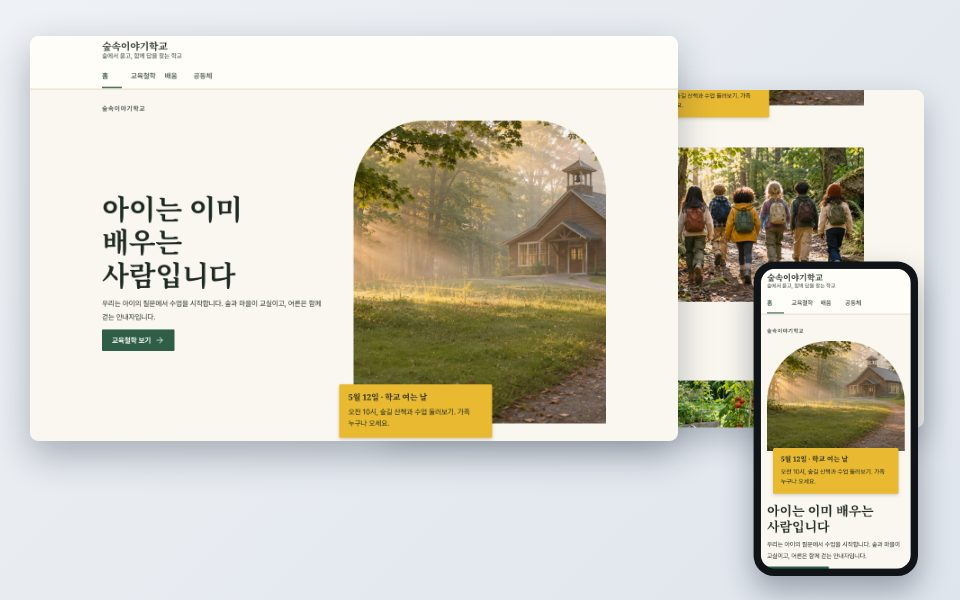
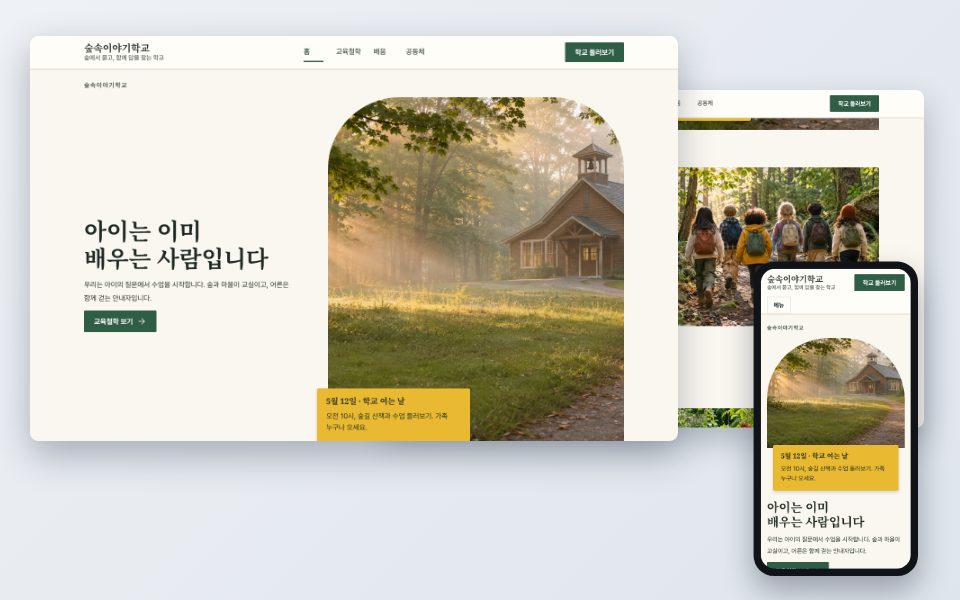
106차: 템플릿 레이아웃 체계 — 격자·구역 띠·구역 머리·한 줄 머리글·4칸 바닥글 (#159)
* 100차 준비: 템플릿 레이아웃 체계 진단과 작업 지시

Claude-Session: https://claude.ai/code/session_013RZyUom6xS67hpTPYHpecQ

* 초안(보관): Claude가 만든 템플릿 레이아웃 층 — Codex 결과와 비교용, 병합하지 않음

Claude-Session: https://claude.ai/code/session_013RZyUom6xS67hpTPYHpecQ

* 106차: 템플릿 레이아웃 체계 — 1200px 격자·구역 띠·구역 머리·한 줄 머리글·4칸 바닥글, 썸네일

- 키트 테마만(campus·dawn 그대로). 휴대폰 메뉴 접이 단추 44px, 겹친 카드 화면 안쪽
- 바닥글 주요 행동 단추 대비(axe) 수정
- 차시 문서·인계·Codex 연결 확인 결과 기록

Claude-Session: https://claude.ai/code/session_013RZyUom6xS67hpTPYHpecQ

---------

diff --git a/src/app/globals.css b/src/app/globals.css
@@ -2246,3 +2246,93 @@ label.lang-switch { display: inline-flex; align-items: center; gap: var(--space-
 .site:is([data-theme="ivory"], [data-theme="studio"], [data-theme="play"]):not([data-theme="campus"]):not([data-theme="dawn"]) .sec-faq summary { display: flex; align-items: center; justify-content: space-between; gap: var(--space-3); padding-block: var(--space-2); }
 
 .site[data-theme="play"]:not([data-theme="campus"]):not([data-theme="dawn"]) .sec[data-template="media-right"][data-variant="half"] { padding: clamp(20px, 4vw, 48px); background: var(--t-surface); border: 2px solid var(--t-accent-soft); border-radius: var(--t-radius); }
+
+/* ───────── 100차: 템플릿 레이아웃 체계 (docs/design/template-layout-brief.md, template-reference-board.md)
+   키트 테마(campus·dawn 제외)에만. 격자 폭 1200px · 읽기 폭 720px · 구역 간격 한 값 · 구역 띠 · 구역 머리 · 줄 끝까지 차는 카드 · 한 줄 머리글 · 4칸 바닥글 */
+.site[data-theme]:not([data-theme="campus"]):not([data-theme="dawn"]) {
+  --L-max: 1200px; --L-read: 720px; --L-gutter: clamp(16px, 2.2vw, 28px);
+  --L-section: clamp(56px, 7vw, 104px); --L-head-gap: var(--space-5);
+  --L-band: color-mix(in srgb, var(--t-accent-soft) 45%, var(--t-bg));
+}
+.site[data-theme]:not([data-theme="campus"]):not([data-theme="dawn"]) .site-wrap { width: min(var(--L-max), 100% - 2 * var(--L-gutter)); }
+.site[data-theme]:not([data-theme="campus"]):not([data-theme="dawn"]) .site-main { padding-top: var(--space-6); padding-bottom: 0; gap: 0; }
+.site[data-theme]:not([data-theme="campus"]):not([data-theme="dawn"]) .site-main > .site-head { padding-bottom: var(--space-6); }
+.site[data-theme]:not([data-theme="campus"]):not([data-theme="dawn"]) .site-blocks { gap: 0; }
+/* 구역 간격: 구역마다 위아래 같은 여백(겹치는 띠·첫 화면 예외) */
+.site[data-theme]:not([data-theme="campus"]):not([data-theme="dawn"]) .site-blocks > :is(.sec:not([data-template="banner"], [data-template="cta"]), .site-section, .sec-quote, .site-text, .site-figure, .site-video, .site-gallery, .site-download) { padding-block: calc(var(--L-section) / 2); }
+.site[data-theme]:not([data-theme="campus"]):not([data-theme="dawn"]) .site-blocks > .sec[data-template="banner"] { margin-block: calc(var(--L-section) / 2); }
+.site[data-theme]:not([data-theme="campus"]):not([data-theme="dawn"]) .site-blocks > .sec[data-template="banner"]:first-child { margin-top: 0; }
+.site[data-theme]:not([data-theme="campus"]):not([data-theme="dawn"]) .site-blocks > .site-section { border-top: 0; }
+.site[data-theme]:not([data-theme="campus"]):not([data-theme="dawn"]) .site-blocks > :first-child { padding-top: 0; }
+/* 구역 띠: 카드·사진·단계·정보·소식 구역은 화면 끝까지 연한 바탕을 깐다(가로 넘침 없이 그림자로) */
+.site[data-theme]:not([data-theme="campus"]):not([data-theme="dawn"]) .site-blocks > :is(.sec[data-template="cards"], .sec[data-template="steps"], .sec[data-template="facts"], .site-section):nth-child(even) {
+  background: var(--L-band); box-shadow: 0 0 0 100vmax var(--L-band); clip-path: inset(0 -100vmax);
+}
+.site[data-theme]:not([data-theme="campus"]):not([data-theme="dawn"]) .site-blocks > .sec[data-template="cta"] { margin-block: calc(var(--L-section) / 2); }
+/* 구역 머리: 이름표 → 제목 → 설명은 왼쪽(읽기 폭), 단추·'모두 보기'는 오른쪽 끝 */
+.site[data-theme]:not([data-theme="campus"]):not([data-theme="dawn"]) .sec:is([data-template="cards"], [data-template="photos"], [data-template="steps"], [data-template="facts"]) > .sec-copy,
+.site[data-theme]:not([data-theme="campus"]):not([data-theme="dawn"]) .site-section > .sec-copy {
+  max-width: none; width: 100%; grid-template-columns: minmax(0, var(--L-read)) auto; justify-content: space-between; align-items: end; column-gap: var(--space-6); margin-bottom: var(--L-head-gap);
+}
+.site[data-theme]:not([data-theme="campus"]):not([data-theme="dawn"]) .sec:is([data-template="cards"], [data-template="photos"], [data-template="steps"], [data-template="facts"]) > .sec-copy > :not(.site-button, .site-link),
+.site[data-theme]:not([data-theme="campus"]):not([data-theme="dawn"]) .site-section > .sec-copy > :not(.site-button, .site-link) { grid-column: 1; }
+.site[data-theme]:not([data-theme="campus"]):not([data-theme="dawn"]) .sec:is([data-template="cards"], [data-template="photos"], [data-template="steps"], [data-template="facts"]) > .sec-copy > :is(.site-button, .site-link),
+.site[data-theme]:not([data-theme="campus"]):not([data-theme="dawn"]) .site-section > .sec-copy > :is(.site-button, .site-link) { grid-column: 2; grid-row: 1 / span 4; align-self: end; justify-self: end; white-space: nowrap; }
+.site[data-theme]:not([data-theme="campus"]):not([data-theme="dawn"]) :is(.sec-copy, .site-head) > p { max-width: var(--L-read); }
+/* 카드 격자: 줄 끝까지 채우고, 개수에 맞춰 2·3·4칸, 같은 높이·같은 사진 비율 */
+.site[data-theme]:not([data-theme="campus"]):not([data-theme="dawn"]) .sec:is(:not([data-variant]), [data-variant="filter"]) > :is(.sec-cards, .sec-photos, .sec-steps),
+.site[data-theme]:not([data-theme="campus"]):not([data-theme="dawn"]) .sec:is(:not([data-variant]), [data-variant="filter"]) .sec-filter :is(.sec-cards, .sec-photos),
+.site[data-theme]:not([data-theme="campus"]):not([data-theme="dawn"]) .site-section > .site-cards { grid-template-columns: repeat(3, minmax(0, 1fr)); gap: var(--L-gutter); }
+.site[data-theme]:not([data-theme="campus"]):not([data-theme="dawn"]) .sec:is(:not([data-variant]), [data-variant="filter"]) :is(.sec-cards, .sec-photos, .sec-steps):is(:has(> li:nth-child(4):last-child), :has(> li:nth-child(8):last-child)),
+.site[data-theme]:not([data-theme="campus"]):not([data-theme="dawn"]) .site-section > .site-cards:is(:has(> li:nth-child(4):last-child), :has(> li:nth-child(8):last-child)) { grid-template-columns: repeat(4, minmax(0, 1fr)); }
+.site[data-theme]:not([data-theme="campus"]):not([data-theme="dawn"]) .sec:is(:not([data-variant]), [data-variant="filter"]) :is(.sec-cards, .sec-photos, .sec-steps):has(> li:nth-child(2):last-child),
+.site[data-theme]:not([data-theme="campus"]):not([data-theme="dawn"]) .site-section > .site-cards:has(> li:nth-child(2):last-child) { grid-template-columns: repeat(2, minmax(0, 1fr)); }
+.site[data-theme]:not([data-theme="campus"]):not([data-theme="dawn"]) :is(.sec-cards, .site-cards) > li { height: 100%; }
+.site[data-theme]:not([data-theme="campus"]):not([data-theme="dawn"]) .sec-cards > li > a, .site[data-theme]:not([data-theme="campus"]):not([data-theme="dawn"]) .site-cards > li > a { height: 100%; }
+.site[data-theme]:not([data-theme="campus"]):not([data-theme="dawn"]) :is(.sec-cards, .sec-photos, .site-cards) img { width: 100%; aspect-ratio: 4 / 3; object-fit: cover; }
+/* 반반 구역: 6칸 · 6칸, 세로 가운데 */
+.site[data-theme]:not([data-theme="campus"]):not([data-theme="dawn"]) .sec:is([data-template="media-left"], [data-template="media-right"]):not([data-variant]) { grid-template-columns: repeat(2, minmax(0, 1fr)); gap: clamp(24px, 5vw, 72px); align-items: center; }
+/* 첫 화면(글 | 사진): 글 5칸 · 사진 7칸, 위아래 가운데. 겹친 카드는 사진 안쪽 아래에 */
+.site[data-theme]:not([data-theme="campus"]):not([data-theme="dawn"]) .sec[data-template="banner"][data-variant="editorial"] { grid-template-columns: minmax(0, 5fr) minmax(0, 7fr); }
+.site[data-theme]:not([data-theme="campus"]):not([data-theme="dawn"]) .sec[data-template="banner"][data-variant="editorial"] .sec-copy { max-width: 36rem; }
+.site[data-theme]:not([data-theme="campus"]):not([data-theme="dawn"]) .sec[data-template="banner"][data-variant="editorial"] h2 { font-size: clamp(32px, 3.6vw, 52px); text-wrap: balance; }
+@media (min-width: 761px) { .site[data-theme]:not([data-theme="campus"]):not([data-theme="dawn"]) .sec[data-template="banner"][data-variant="editorial"] .sec-cards { margin: 0 0 var(--space-6) calc(-1 * var(--space-6)); } }
+/* 머리글: 한 줄(학교 이름 · 메뉴 · 언어 · 주요 행동), 맨 위에 붙는다 */
+.site[data-theme]:not([data-theme="campus"]):not([data-theme="dawn"]) .site-header { position: sticky; top: 0; z-index: 20; }
+.site[data-theme]:not([data-theme="campus"]):not([data-theme="dawn"]) .site-header-row { flex-wrap: nowrap; min-height: 72px; gap: var(--space-5); }
+.site[data-theme]:not([data-theme="campus"]):not([data-theme="dawn"]) .site-brand { flex: none; }
+.site[data-theme]:not([data-theme="campus"]):not([data-theme="dawn"]) .site-nav-inline { flex: 1; justify-content: center; gap: clamp(12px, 2vw, 28px); overflow: visible; }
+.site[data-theme]:not([data-theme="campus"]):not([data-theme="dawn"]) .site-nav-inline a { display: inline-flex; align-items: center; min-height: 44px; padding: 0; }
+.site[data-theme]:not([data-theme="campus"]):not([data-theme="dawn"]) .site-langs { flex: none; }
+.site[data-theme]:not([data-theme="campus"]):not([data-theme="dawn"]) .site-header .site-visit { flex: none; min-height: 44px; }
+.site[data-theme]:not([data-theme="campus"]):not([data-theme="dawn"]) .site-menu { display: none; }
+.site[data-theme]:not([data-theme="campus"]):not([data-theme="dawn"]) .site-menu > summary { display: inline-flex; align-items: center; gap: var(--space-2); min-height: 44px; padding: 0 var(--space-4); border: 1px solid var(--t-line); border-radius: var(--t-btn-radius); font-weight: 700; cursor: pointer; }
+.site[data-theme]:not([data-theme="campus"]):not([data-theme="dawn"]) .site-menu[open] > summary { margin-bottom: var(--space-2); }
+.site[data-theme]:not([data-theme="campus"]):not([data-theme="dawn"]) .site-menu nav { display: grid; gap: 0; padding-bottom: var(--space-3); }
+.site[data-theme]:not([data-theme="campus"]):not([data-theme="dawn"]) .site-menu nav a { display: flex; align-items: center; min-height: 44px; border-bottom: 1px solid var(--t-line); color: var(--t-ink); text-decoration: none; font-weight: 600; }
+.site[data-theme]:not([data-theme="campus"]):not([data-theme="dawn"]) .site-menu nav a[aria-current="page"] { color: var(--t-link); }
+/* 바닥글: 학교 | 메뉴 | 연락 | 주요 행동, 아래 줄(저작권·교직원) */
+.site[data-theme]:not([data-theme="campus"]):not([data-theme="dawn"]) .site-footer-grid { grid-template-columns: minmax(0, 1.4fr) minmax(0, 1fr) minmax(0, 1.2fr) minmax(0, 1fr); gap: var(--space-8); }
+.site[data-theme]:not([data-theme="campus"]):not([data-theme="dawn"]) .site-footer-grid > nav { grid-template-columns: repeat(2, minmax(0, max-content)); column-gap: var(--space-6); }
+.site[data-theme]:not([data-theme="campus"]):not([data-theme="dawn"]) .site-footer-action { display: grid; align-content: start; justify-items: start; }
+.site[data-theme]:not([data-theme="campus"]):not([data-theme="dawn"]) .site-footer .site-footer-action a.site-button { color: var(--t-accent-ink); }
+.site[data-theme]:not([data-theme="campus"]):not([data-theme="dawn"]) .site-footer-note { border-top: 1px solid color-mix(in srgb, currentColor 22%, transparent); }
+@media (max-width: 900px) {
+  .site[data-theme]:not([data-theme="campus"]):not([data-theme="dawn"]) .site-nav-inline { display: none; }
+  .site[data-theme]:not([data-theme="campus"]):not([data-theme="dawn"]) .site-menu { display: block; }
+  .site[data-theme]:not([data-theme="campus"]):not([data-theme="dawn"]) .site-header-row { flex-wrap: wrap; }
+  .site[data-theme]:not([data-theme="campus"]):not([data-theme="dawn"]) .site-header .site-visit { margin-left: auto; }
+  .site[data-theme]:not([data-theme="campus"]):not([data-theme="dawn"]) .sec:is(:not([data-variant]), [data-variant="filter"]) :is(.sec-cards, .sec-photos, .sec-steps),
+  .site[data-theme]:not([data-theme="campus"]):not([data-theme="dawn"]) .sec:is(:not([data-variant]), [data-variant="filter"]) :is(.sec-cards, .sec-photos, .sec-steps):is(:has(> li:nth-child(4):last-child), :has(> li:nth-child(8):last-child)),
+  .site[data-theme]:not([data-theme="campus"]):not([data-theme="dawn"]) .site-section > .site-cards, .site[data-theme]:not([data-theme="campus"]):not([data-theme="dawn"]) .site-section > .site-cards:has(> li:nth-child(4):last-child) { grid-template-columns: repeat(2, minmax(0, 1fr)); }
+  .site[data-theme]:not([data-theme="campus"]):not([data-theme="dawn"]) .site-footer-grid { grid-template-columns: repeat(2, minmax(0, 1fr)); }
+}
+@media (max-width: 760px) {
+  .site[data-theme]:not([data-theme="campus"]):not([data-theme="dawn"]) .sec:is(:not([data-variant]), [data-variant="filter"]) :is(.sec-cards, .sec-photos, .sec-steps),
+  .site[data-theme]:not([data-theme="campus"]):not([data-theme="dawn"]) .sec:is(:not([data-variant]), [data-variant="filter"]) :is(.sec-cards, .sec-photos, .sec-steps):is(:has(> li:nth-child(4):last-child), :has(> li:nth-child(2):last-child)),
+  .site[data-theme]:not([data-theme="campus"]):not([data-theme="dawn"]) .site-section > .site-cards, .site[data-theme]:not([data-theme="campus"]):not([data-theme="dawn"]) .site-section > .site-cards:has(> li) { grid-template-columns: minmax(0, 1fr); }
+  .site[data-theme]:not([data-theme="campus"]):not([data-theme="dawn"]) .sec:is([data-template="cards"], [data-template="photos"], [data-template="steps"], [data-template="facts"]) > .sec-copy, .site[data-theme]:not([data-theme="campus"]):not([data-theme="dawn"]) .site-section > .sec-copy { grid-template-columns: minmax(0, 1fr); }
+  .site[data-theme]:not([data-theme="campus"]):not([data-theme="dawn"]) .sec:is([data-template="cards"], [data-template="photos"], [data-template="steps"], [data-template="facts"]) > .sec-copy > :is(.site-button, .site-link), .site[data-theme]:not([data-theme="campus"]):not([data-theme="dawn"]) .site-section > .sec-copy > :is(.site-button, .site-link) { grid-column: 1; grid-row: auto; justify-self: start; }
+  .site[data-theme]:not([data-theme="campus"]):not([data-theme="dawn"]) .sec:is([data-template="media-left"], [data-template="media-right"]):not([data-variant]), .site[data-theme]:not([data-theme="campus"]):not([data-theme="dawn"]) .sec[data-template="banner"][data-variant="editorial"] { grid-template-columns: minmax(0, 1fr); }
+  .site[data-theme]:not([data-theme="campus"]):not([data-theme="dawn"]) .site-footer-grid { grid-template-columns: minmax(0, 1fr); }
+}

diff --git a/src/lib/site-templates.ts b/src/lib/site-templates.ts
@@ -27,8 +27,10 @@ const ko = (s: string): LText => ({ ko: s });
 const kb = (k: string, e: string): LText => ({ ko: k, en: e });
 const section = (b: Omit<Extract<Block, { type: 'section' }>, 'type'>): Block => ({ type: 'section', ...b });
 const news = (title: LText, count = 3, style: 'cards' | 'list' = 'cards'): Block => ({ type: 'news_list', title, count, style });
-const contact = (): Content['site'] => ({
+const contact = (visit?: { label: string; href: string }): Content['site'] => ({
   tagline: ko('[학교를 한 줄로 소개하는 말]'), address: ko('[학교 주소]'), footer: ko('[학교 이름] · [대표 전화] · [이메일]'),
+  // 100차: 머리글 오른쪽·바닥글의 주요 행동 단추(학교가 이름과 가는 곳을 바꾼다)
+  ...(visit ? { visit: { label: ko(visit.label), href: visit.href } } : {}),
 });
 const page = (key: string, sort: number, title: LText, blocks: Block[], extra: Partial<Content> = {}): TemplatePage =>
   ({ kind: 'page', key, sort, content: { title, blocks, ...extra } });
@@ -81,7 +83,7 @@ export const SITE_TEMPLATES: SiteTemplate[] = [
     ],
   },
   {
-    key: 'story', version: 3, name: '이야기형', theme: 'ivory', langs: ['ko'],
+    key: 'story', version: 4, name: '이야기형', theme: 'ivory', langs: ['ko'],
     summary: '교육철학과 학교의 하루를 사진과 이야기로 보여 줍니다.',
     fits: ['사립·대안학교', '교육철학으로 알려지는 학교'], firstScreen: '큰 사진 · 교육철학 · 하루 이야기',
     mustHave: ['교육철학', '배움(교육과정)', '입학 문의 방법'],
@@ -94,7 +96,7 @@ export const SITE_TEMPLATES: SiteTemplate[] = [
         section({ template: 'photos', variant: 'mosaic', eyebrow: ko('학교의 사계절'), title: ko('[사진으로 보는 우리 학교]'), items: [
           { title: ko('[사진 이름 1]') }, { title: ko('[사진 이름 2]') }, { title: ko('[사진 이름 3]') }, { title: ko('[사진 이름 4]') }, { title: ko('[사진 이름 5]') }] }),
         news(ko('이야기'), 3),
-      ], { site: contact() }),
+      ], { site: contact({ label: '학교 둘러보기', href: '/p/community' }) }),
       page('philosophy', 1, ko('교육철학'), [
         section({ template: 'quote', variant: 'editorial', title: ko('숲과 마을을 교실로 삼는 우리의 약속'), body: ko('[학교를 세운 마음을 담은 한마디]') }),
         section({ template: 'cards', variant: 'index', title: ko('우리가 소중히 여기는 것'), items: [{ title: ko('[가치 1]'), body: ko('[설명]') }, { title: ko('[가치 2]'), body: ko('[설명]') }, { title: ko('[가치 3]'), body: ko('[설명]') }] }),
@@ -156,7 +158,7 @@ export const SITE_TEMPLATES: SiteTemplate[] = [
     ],
   },
   {
-    key: 'project', version: 4, name: '프로젝트형', theme: 'studio', langs: ['ko'],
+    key: 'project', version: 5, name: '프로젝트형', theme: 'studio', langs: ['ko'],
     summary: '학생 프로젝트와 작품을 사진 묶음으로 보여 주는 PBL 학교용입니다.',
     fits: ['PBL·프로젝트 중심 대안학교', '발표회·전시가 많은 학교'], firstScreen: '프로젝트 소개 · 발표회 소식',
     mustHave: ['배움의 방식(PBL 흐름)', '프로젝트 목록', '학생 작품 공개 허가'],
@@ -170,7 +172,7 @@ export const SITE_TEMPLATES: SiteTemplate[] = [
         section({ template: 'steps', title: ko('배움의 흐름'), items: [{ title: ko('문제 정의'), body: ko('[학생이 질문을 찾는 방법]') }, { title: ko('탐구'), body: ko('[자료·현장·전문가]') }, { title: ko('산출'), body: ko('[만드는 것]') }, { title: ko('나눔·피드백'), body: ko('[발표·전시]') }] }),
         section({ template: 'cards', variant: 'mentors', eyebrow: ko('곁에서 함께 묻는 사람들'), title: ko('마을의 멘토'), items: [1, 2, 3].map(() => ({ title: ko('[이름 · 맡은 분야]'), body: ko('[한 줄 소개]') })), button: { label: ko('배움의 방식 보기'), href: '/p/how-we-learn' } }),
         news(ko('발표회·전시 소식'), 3),
-      ], { site: contact() }),
+      ], { site: contact({ label: '발표회 보기', href: '/p/projects' }) }),
       page('how-we-learn', 1, ko('배움의 방식'), [
         section({ template: 'media-left', eyebrow: ko('질문에서 세상으로'), title: ko('왜 프로젝트로 배우나요'), body: ko('[학교의 설명]') }),
         section({ template: 'facts', variant: 'curriculum', title: ko('한 학기 흐름'), items: [1, 2, 3, 4].map(() => ({ title: ko('[주차]'), body: ko('[활동]') })) }),
@@ -256,7 +258,7 @@ export const SITE_TEMPLATES: SiteTemplate[] = [
   },
   {
     // 90차: 대표 3종의 유치원(골격 D 그래픽 마스크형) — 둥글게 오린 놀이 사진, 연령별 반, 하루 일과 시간 띠, 학부모 질문
-    key: 'kinder', version: 3, name: '유치원형', theme: 'play', langs: ['ko'],
+    key: 'kinder', version: 4, name: '유치원형', theme: 'play', langs: ['ko'],
     summary: '아이들의 하루와 반, 학부모가 궁금한 것을 사진과 함께 따뜻하게 보여 줍니다.',
     fits: ['유치원·어린이집', '초등 저학년 중심 학교'], firstScreen: '둥근 놀이 사진 · 우리 반 · 하루 일과',
     mustHave: ['연령별 반 안내', '하루 일과', '급식·건강 안내', '입학(입소) 상담 방법'],
@@ -270,7 +272,7 @@ export const SITE_TEMPLATES: SiteTemplate[] = [
         news(ko('알림'), 3),
         section({ template: 'facts', variant: 'faq', title: ko('학부모가 자주 묻는 질문'), items: [{ title: ko('[질문 1]'), body: ko('[답 1]') }, { title: ko('[질문 2]'), body: ko('[답 2]') }] }),
         section({ template: 'cta', title: ko('직접 와서 보세요'), body: ko('[방문 상담 요일·연락처]'), button: { label: ko('상담 안내'), href: '/p/admission' } }),
-      ], { site: contact() }),
+      ], { site: contact({ label: '입학 상담', href: '/p/admission' }) }),
       page('classes', 1, ko('우리 반'), [
         section({ template: 'cards', variant: 'rows', eyebrow: ko('아이의 속도에 맞추어'), title: ko('연령별 반'), items: [
           { title: ko('[반 이름 · 나이 1]'), body: ko('[하루 모습·담임·정원]') }, { title: ko('[반 이름 · 나이 2]'), body: ko('[하루 모습·담임·정원]') }, { title: ko('[반 이름 · 나이 3]'), body: ko('[하루 모습·담임·정원]') }] }),

diff --git a/src/components/site/SiteFrame.tsx b/src/components/site/SiteFrame.tsx
@@ -70,6 +70,8 @@ export function SiteFrame({ site, lang, current, path, profile, assetUrl, hidden
   const title = pick(site.title, lang, site.default_lang) || site.school;
   const t = (x: Parameters<typeof pick>[0]) => pick(x, lang, site.default_lang);
   const dawn = site.theme === 'dawn';
+  // 100차: 템플릿 키트 디자인(campus·dawn 제외)은 한 줄 머리글(이름 · 메뉴 · 언어 · 주요 행동)과 4칸 바닥글을 쓴다
+  const kit = !dawn && site.theme !== 'campus';
   // 89차: 새벽빛과 템플릿 완성 디자인(ADR 0034)은 학교 이름·메뉴·연락처가 있는 넓은 바닥을 쓴다(학사 기본만 한 줄 바닥)
   const richFooter = site.theme !== 'campus';
   const nav = hidden ? [] : [
@@ -102,7 +104,7 @@ export function SiteFrame({ site, lang, current, path, profile, assetUrl, hidden
             <span><strong>{title}</strong>{t(profile?.tagline) && <small>{t(profile?.tagline)}</small>}</span>
           </Link>
           {/* 42차: 새벽빛은 옛 사이트처럼 메뉴를 머리 한 줄 안에 둔다 */}
-          {dawn && nav.length > 0 && <nav className="site-nav site-nav-inline" aria-label={title}>{navList}</nav>}
+          {(dawn || kit) && nav.length > 0 && <nav className="site-nav site-nav-inline" aria-label={title}>{navList}</nav>}
           {langList.length > 1 && (dawn
             ? (
               <Suspense fallback={<details className="site-lang-menu"><summary><span lang={lang}>{LANG_LABEL[lang]}</span></summary></details>}>
@@ -117,8 +119,8 @@ export function SiteFrame({ site, lang, current, path, profile, assetUrl, hidden
           {visit && <Link className="site-button site-visit" href={visit.href.startsWith('/') ? link(visit.href) : visit.href}>{t(visit.label)}</Link>}
         </div>
         {nav.length > 0 && <>
-          {!dawn && <nav className="site-wrap site-nav" aria-label={title}>{navList}</nav>}
-          {dawn && (
+          {!dawn && !kit && <nav className="site-wrap site-nav" aria-label={title}>{navList}</nav>}
+          {(dawn || kit) && (
             <Suspense fallback={<details className="site-wrap site-menu"><summary>{siteText('menu', lang)}</summary></details>}>
               <AutoCloseDetails className="site-wrap site-menu" summary={siteText('menu', lang)}>
                 <nav aria-label={`${title} ${siteText('menu', lang)}`}>{navList}</nav>
@@ -147,6 +149,11 @@ export function SiteFrame({ site, lang, current, path, profile, assetUrl, hidden
               {profile?.phone?.length ? <p><a href={`tel:${profile.phone.at(-1)!.replace(/[^0-9+]/g, '')}`} aria-label={`${siteText('call', lang)} ${profile.phone.at(-1)}`}>{profile.phone.at(-1)}</a></p> : null}
               {profile?.facebook && <p><a className="site-link" href={profile.facebook} target="_blank" rel="noopener noreferrer">Facebook<ArrowRight className="link-arrow" size={20} strokeWidth={1.4} aria-hidden="true" /></a></p>}
             </div>
+            {kit && visit && (
+              <div className="site-footer-action">
+                <Link className="site-button" href={visit.href.startsWith('/') ? link(visit.href) : visit.href}>{t(visit.label)}</Link>
+              </div>
+            )}
             <div className="site-footer-note">
               <p>{t(profile?.footer) || `© ${title}`}</p>
               {!preview && <a className="site-footer-staff" href={staffEditHref(site, path)} rel="nofollow" data-testid="staff-edit">{siteText('staff', lang)}</a>}

diff --git a/docs/design/template-layout-brief.md b/docs/design/template-layout-brief.md
@@ -1,0 +1,60 @@
+# 템플릿 레이아웃 체계 — 진단과 작업 지시 (100차 준비, 2026-11-27)
+
+> **요약** 99차로 사진과 쪽별 배치는 들어갔지만, 화면을 붙잡는 **공통 레이아웃 체계**(격자·간격 단계·구역 머리·머리글·바닥글 규칙)가 없습니다. 그래서 구역마다 폭·정렬·여백이 제각각이고 빈 곳이 생깁니다. 이 작업은 잘 정돈된 학교·기관 템플릿들의 **구조 원리**를 조사해, 정리된 레이아웃 체계를 만들고 대표 3종(story·project·kinder)에 적용합니다.
+
+> **왜** 선생님(2026-11-27): "사진도 예쁘고 좋긴 한데 기본적인 골격, 레이아웃이 정리되지 않은 것 같다. 레이아웃이 촘촘하게 잘 정돈된 템플릿을 찾고 반영하도록 하자."
+
+```terms
+격자(grid) | 화면을 같은 폭의 세로 칸(예: 12칸)으로 나눠 모든 요소를 칸 경계에 맞추는 규칙 | 카드 3장 = 4칸씩, 글·사진 반반 = 6칸씩
+간격 단계 | 여백을 몇 가지 정해진 크기로만 쓰는 규칙 | 구역 사이 96px, 제목과 본문 사이 16px
+구역 머리 | 각 구역 위에 오는 작은 이름표·제목·설명·'모두 보기' 링크의 고정 배치 | "학생 작품 / 이번 학기 만든 것 / 모두 보기 →"
+구역 띠 | 구역마다 배경색을 번갈아 깔아 경계를 보이게 하는 것 | 흰 바탕 → 연한 베이지 → 흰 바탕
+```
+
+## 1. 지금 화면에서 본 문제 (운영 1440px, 99차)
+| # | 문제 | 어디서 |
+| --- | --- | --- |
+| 1 | 화면 공통 격자가 없다. 구역마다 폭이 다르다(본문 760px 제한, 갤러리는 1120px, 소식 카드는 3/4 폭에서 끝남). 오른쪽에 큰 빈칸이 생긴다 | 세 템플릿 모두 |
+| 2 | 소식 카드 3장이 줄 끝까지 차지 않고 왼쪽에 몰린다 | 홈 '이야기·발표회·알림' |
+| 3 | 구역 간격이 일정하지 않다. 어떤 곳은 200px 넘게 비고, 어떤 곳은 구분선만 있다. 배경 띠가 없어 구역 경계가 흐리다 | 세 템플릿 모두 |
+| 4 | 구역 머리 모양이 제각각이다. 이름표·제목·설명·링크 위치가 구역마다 다르고, 단추가 제목과 격자 사이에 끼어 있다 | 프로젝트형 '마을 멘토' |
+| 5 | 첫 화면의 글 칸과 사진 칸이 세로로 맞지 않는다. 글 칸이 좁아 제목이 3줄로 꺾이고, 겹친 행사 카드가 사진 밖으로 어긋난다 | 이야기형 첫 화면 |
+| 6 | 머리글이 약하다. 학교 이름·메뉴가 위아래로 쌓이고, 오른쪽에 주요 행동(입학 문의 등)이 없다 | 세 템플릿 모두 |
+| 7 | 바닥글 3칸의 정렬이 맞지 않는다. 메뉴는 밑줄 친 세로 목록에 간격이 크고, 주소가 떠 있다 | 세 템플릿 모두 |
+| 8 | 카드 높이·사진 비율·글 줄 수가 한 줄 안에서 맞지 않는다 | 반 카드, 멘토 카드 |
+
+**근본 원인**: `SiteRenderer`는 블록을 한 줄로 쌓기만 하고, 테마 CSS가 구역별로 폭·여백을 따로 정한다. 공통 '레이아웃 층'(격자·간격 단계·구역 머리·띠)이 없다.
+
+## 범위 나누기
+- **이 작업(100차)**: 레이아웃 체계와 대표 3종 정렬. 메뉴 이름·쪽 구성은 지금 것을 유지합니다.
+- **다음 작업**: Claude가 대표 학교 홈페이지들을 조사해 `docs/design/school-site-ia.md`(학교 홈페이지가 갖춰야 할 메뉴 구성·쪽 골격)를 만듭니다. 그 결과로 템플릿 메뉴와 쪽을 재구성하는 일은 별도 작업으로 맡깁니다.
+- 그래서 머리글·바닥글은 **메뉴가 5~7개, 두 단계(하위 메뉴)로 늘어나도** 견디게 만들어 주세요.
+
+## 2. 해 주실 일 (Codex)
+1. **조사**: 레이아웃이 촘촘하게 잘 정돈된 학교·교육기관·비영리 템플릿 5~8개의 **구조 원리**를 정리합니다.
+   - 대상: 상용(Framer·Webflow·Squarespace·WordPress 등)과 공개 디자인 시스템(예: GOV.UK, USWDS, Material 격자 규칙)
+   - 정리할 것: 격자 칸 수·여백, 간격 단계, 구역 머리 모양, 머리글·바닥글 구조, 카드 격자 규칙, 휴대폰 재배치
+   - `docs/design/template-layout-research.md`에 출처 링크와 함께 표로 적습니다.
+   - 인터넷이 안 되는 환경이면 알고 있는 원리로 쓰고, 그 사실을 문서 첫머리에 밝힙니다.
+   - **코드·사진·문구·고유 디자인은 가져오지 않고 구조 원리만** 참고합니다(ADR 0034, `homepage-commercial-plan.md` 1절).
+2. **레이아웃 체계**: 키트 테마(campus·dawn 제외)에 공통으로 적용합니다.
+   - 12칸 격자, 콘텐츠 폭(예: 1200px)과 좁은 글 폭(예: 720px) 두 단계, 칸 사이 여백
+   - 간격 단계 토큰(예: `--t-space-1..8`)과 구역 상하 여백 규칙
+   - 구역 머리 컴포넌트 하나(이름표 → 제목 → 설명, 오른쪽 끝 '모두 보기' 링크)
+   - 구역 띠(배경 교차) 규칙, 카드 격자(2·3·4열 자동, 줄 끝까지 채움, 같은 높이·같은 사진 비율)
+   - 머리글(왼쪽 학교 이름, 가운데·오른쪽 메뉴, 맨 오른쪽 주요 행동 단추, 휴대폰 메뉴)과 바닥글(4칸 격자: 학교 소개·메뉴·연락·주소/지도 링크)
+3. **적용**: 대표 3종의 홈과 안쪽 9쪽을 이 체계에 맞춰 다시 정렬합니다. 1절 문제 1~8이 모두 사라져야 합니다.
+   - 저장 형식(블록·variant)은 바꾸지 않습니다. 렌더러와 CSS 층에서 해결합니다.
+   - **campus·dawn 테마(룽아룬숙사 운영 사이트)는 바뀌면 안 됩니다.** 전후 화면을 비교해 확인합니다.
+4. **시험·증거**
+   - `npm run typecheck`, `test:unit`, `lint:colors`, `lint:i18n`, `check:repo`, `npm test`, `npm run build && npm run test:e2e`
+   - `npm run ui:review -- template-story template-project template-kinder`(1440·768·390)
+   - 썸네일 다시 찍기 `npm run templates:thumbs -- story project kinder`
+   - PR 본문에 1절 문제 1~8의 **전후 화면**(1440px)과 휴대폰 화면을 붙이고, 완료 범위·시험 결과·미확인 항목·Claude가 이어 할 일을 적습니다.
+
+## 3. 끝난 기준
+- 세 템플릿 모든 쪽에서 구역의 왼쪽·오른쪽 끝이 같은 격자선에 맞는다(첫 화면 전면 사진 예외).
+- 구역 간격이 간격 단계 값만 쓴다(CSS에 임의 px 없음, `lint:colors` 규칙 준수).
+- 카드 줄이 줄 끝까지 차고, 한 줄 안의 카드 높이·사진 비율이 같다.
+- 휴대폰(390px)에서 가로 넘침 0, 머리글 메뉴가 접힌다.
+- campus·dawn 화면 변화 없음.

diff --git a/docs/rounds/round-106.md b/docs/rounds/round-106.md
@@ -1,0 +1,26 @@
+# 106차: 템플릿 레이아웃 체계 — 격자·구역 띠·구역 머리·한 줄 머리글·4칸 바닥글 (PR #159)
+
+- 날짜: 2026-11-27 · 세션: 학교 홈페이지 기능·템플릿(`session_013RZyUom6xS67hpTPYHpecQ`)
+- 사용자 지시: "레이아웃이 촘촘하게 잘 정돈된 템플릿을 찾고 반영하도록 하자"(진단 `docs/design/template-layout-brief.md`, 참고 `template-reference-board.md`)
+- Codex 클라우드가 같은 작업을 두 번 끝냈지만 GitHub에 올라오지 않아('Create PR' 단추 필요), 선생님 지시("하던 작업 반영")에 따라 Claude 구현을 반영했다. Codex 결과는 연결이 생기면 비교한다.
+
+## 한 일 (키트 테마만, campus·dawn은 그대로)
+- **격자**: 콘텐츠 폭 1200px, 읽기 폭 720px, 좌우 여백 한 값(`--L-*` 토큰)
+- **구역 간격**: 구역마다 같은 위아래 여백. 첫 화면·행동 띠는 바깥 여백
+- **구역 띠**: 카드·단계·정보·소식 구역은 짝수 번째에 연한 바탕을 화면 끝까지 깐다(가로 넘침 없이)
+- **구역 머리**: 이름표 → 제목 → 설명은 왼쪽(읽기 폭), 단추·'모두 보기'는 오른쪽 끝. 휴대폰에서는 아래로
+- **카드 격자**: 줄 끝까지 채움(2·3·4칸을 개수에 맞춰), 같은 높이, 사진 4:3. 900px 이하 2칸, 760px 이하 1칸
+- **첫 화면(글|사진)**: 글 5칸·사진 7칸, 제목 크기·줄바꿈 정리, 겹친 카드는 휴대폰에서 화면 안쪽
+- **머리글**: 한 줄(학교 이름 · 메뉴 · 언어 · 주요 행동 단추), 위에 붙음. 900px 이하 '메뉴' 접이 단추(44px)
+- **바닥글**: 4칸(학교 | 메뉴 2열 | 연락 | 주요 행동) + 아래 줄
+- **템플릿 판**: 이야기형 v4('학교 둘러보기'), 프로젝트형 v5('발표회 보기'), 유치원형 v4('입학 상담')에 주요 행동 단추(`site.visit`)
+- 썸네일 3장 다시 찍음
+
+## 시험
+- typecheck, lint:colors, lint:i18n, check:repo, build 통과
+- 1440·390px 화면: 세 템플릿 홈 + 안쪽 쪽, 가로 넘침 0
+- test:unit, `npm test`, E2E: 아래 PR 본문에 결과
+
+## 확인하지 못한 것
+- Codex 결과와의 비교(연결 뒤)
+- 메뉴 6개·홈 구역 순서·새 구역 모양(위 작은 줄·겹친 바로가기·단계 카드·숫자 띠 등): 다음 차시

diff --git a/docs/NEXT.md b/docs/NEXT.md
@@ -15,6 +15,9 @@
 ## 홈페이지 템플릿 (99차, Codex 협업)
 대표 3종(이야기·프로젝트·유치원)에 Codex가 생성한 예시 사진 22장(`public/site-templates/img/`, 프롬프트·규격 `docs/design/template-photo-manifest.json`)과 쪽마다 다른 배치(홈 + 안쪽 9쪽)가 들어갔다. 판: story 3, project 4, kinder 3. 다음은 골격 B·E와 나머지 5종 사진(16장, `docs/design/template-image-prompts.md`), 새 템플릿(재외 한글학교·기숙형·진로 특성화). Codex에게 맡기는 길은 `docs/COLLABORATION.md` 8절.
 
+## 홈페이지 레이아웃 (106차)
+키트 테마에 레이아웃 층(1200px 격자·구역 띠·구역 머리·한 줄 머리글·4칸 바닥글)이 들어갔다(`globals.css` 맨 끝 '100차' 주석 블록, `SiteFrame` kit 분기). 다음: `docs/design/school-site-ia.md`(메뉴 6개·홈 구역 순서) + `template-reference-board.md` 3절 구역 모양 8가지.
+
 ## 학교 이전 (92차, ADR 0035)
 공용 DB 기본, 학교 맞춤은 설정값(사본·규칙 판·정의·계산식). 학교는 `scripts/school-move.mjs`로 전용·독립 DB로 옮긴다(`docs/SCHOOL-MOVE.md`). CI `tests/school-move.test.ts`가 연습 이전·구조 문(새 학교 표는 UUID·복합 외래키)을 지킨다.
 
